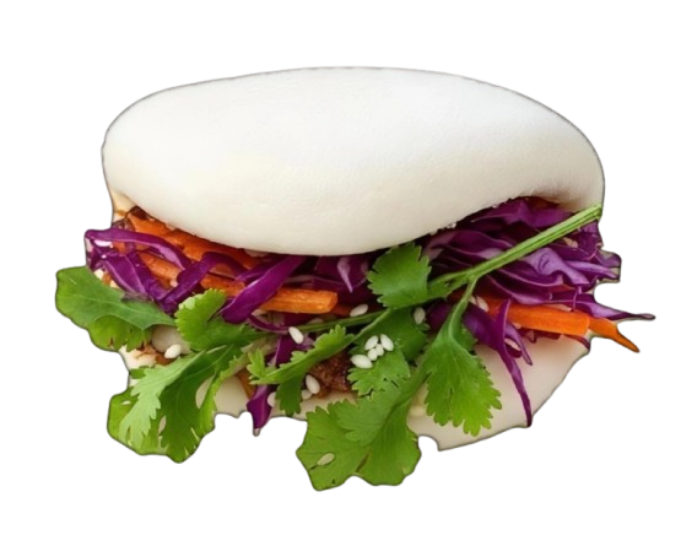
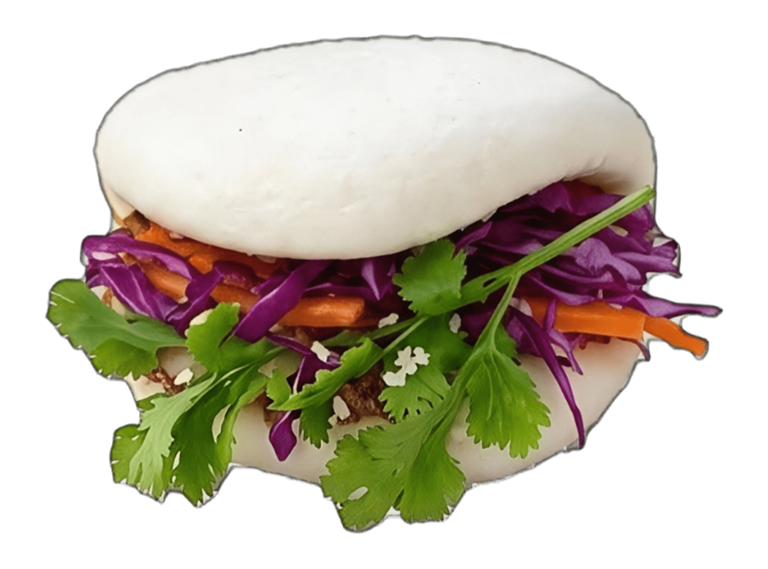
Update images and improve spacings

diff --git a/src/App.css b/src/App.css
@@ -379,8 +379,13 @@ h2 em {
 .menu-section,
 .gallery-section,
 .social-section {
-  padding-top: clamp(100px, 13vw, 180px);
-  padding-bottom: clamp(100px, 13vw, 180px);
+  padding-top: 104px;
+  padding-bottom: 104px;
+}
+
+.gallery-section,
+.social-section {
+  border-top: 1px solid var(--line);
 }
 
 .section-intro {
@@ -452,7 +457,7 @@ h2 em {
 
 .menu-item__number {
   position: absolute;
-  top: 18px;
+  top: 0;
   left: 50%;
   display: grid;
   place-items: center;
@@ -744,7 +749,7 @@ h2 em {
   gap: clamp(42px, 10vw, 150px);
   align-items: center;
   padding-top: 80px;
-  padding-bottom: clamp(100px, 14vw, 190px);
+  padding-bottom: 112px;
   border-top: 1px solid var(--line);
 }
 
@@ -1326,6 +1331,13 @@ h2 em {
     margin-bottom: 44px;
   }
 
+  .menu-section,
+  .gallery-section,
+  .social-section {
+    padding-top: 56px;
+    padding-bottom: 48px;
+  }
+
   .reviews-section {
     gap: 44px;
   }
@@ -1336,6 +1348,22 @@ h2 em {
 
   .reviews-carousel {
     min-height: 430px;
+  }
+
+  .review {
+    padding-bottom: 24px;
+  }
+
+  .reviews-carousel__controls {
+    position: static;
+    justify-content: center;
+    margin-bottom: 20px;
+  }
+
+  .reviews-carousel__indicators {
+    position: static;
+    justify-content: center;
+    padding-bottom: 24px;
   }
 
   .section-intro h2,
@@ -1350,19 +1378,25 @@ h2 em {
   .menu-grid {
     display: flex;
     flex-direction: column;
-    gap: 52px;
+    gap: 36px;
   }
 
   .menu-item,
   .menu-item:nth-child(1),
   .menu-item:nth-child(2),
   .menu-item:nth-child(3) {
-    padding-bottom: 0;
+    padding-bottom: 36px;
     padding-top: 0;
+    border-bottom: 1px solid var(--line);
   }
 
-  .menu-item__image {
-    aspect-ratio: 1.12;
+  .menu-item:last-child {
+    padding-bottom: 0;
+    border-bottom: 0;
+  }
+
+  .menu-item__image-wrap {
+    border-bottom: 0;
   }
 
   .menu-item__copy p {
@@ -1394,7 +1428,8 @@ h2 em {
 
   .story-section {
     gap: 44px;
-    padding-top: 58px;
+    padding-top: 48px;
+    padding-bottom: 48px;
   }
 
   .story-section__visual img {
@@ -1491,7 +1526,7 @@ h2 em {
 
   .delivery-section {
     gap: 44px;
-    padding-top: 72px;
+    padding-top: 36px;
     padding-bottom: 72px;
   }
 
@@ -1501,6 +1536,7 @@ h2 em {
 
   .social-section {
     gap: 48px;
+    padding-bottom: 32px;
   }
 
   .social-link {
@@ -1509,7 +1545,8 @@ h2 em {
 
   .contact-banner {
     gap: 40px;
-    padding-top: 62px;
+    padding-top: 32px;
+    border-top: 0;
   }
 
   .contact-banner h2 {

diff --git a/src/App.tsx b/src/App.tsx
@@ -94,7 +94,9 @@ function handleSmoothAnchorClick(event: React.MouseEvent<HTMLAnchorElement>) {
   }
 
   event.preventDefault()
-  const targetY = Math.max(0, target.getBoundingClientRect().top + window.scrollY)
+  const header = document.querySelector<HTMLElement>('.site-header')
+  const headerOffset = header?.getBoundingClientRect().height ?? 0
+  const targetY = Math.max(0, target.getBoundingClientRect().top + window.scrollY - headerOffset)
   animateScrollTo(targetY)
   window.history.replaceState(null, '', href)
 }
